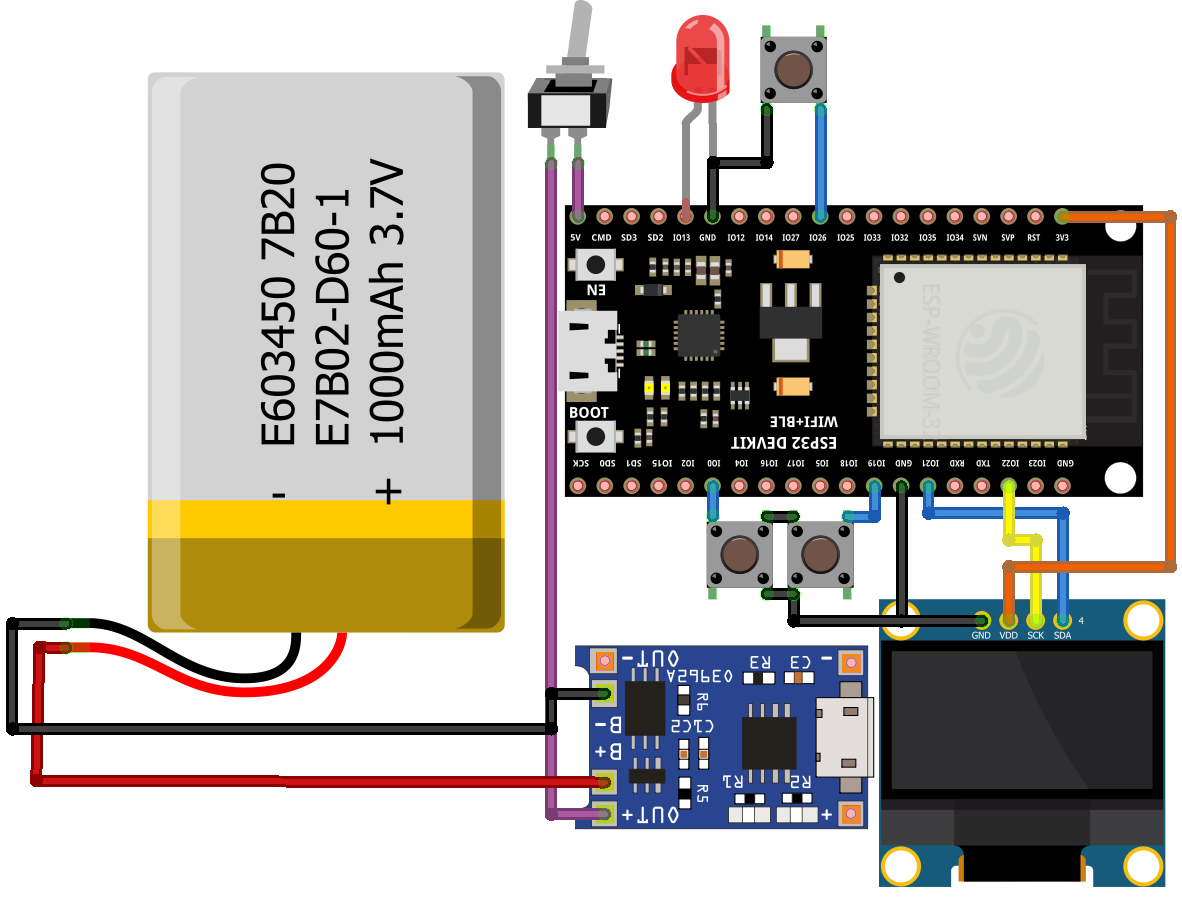
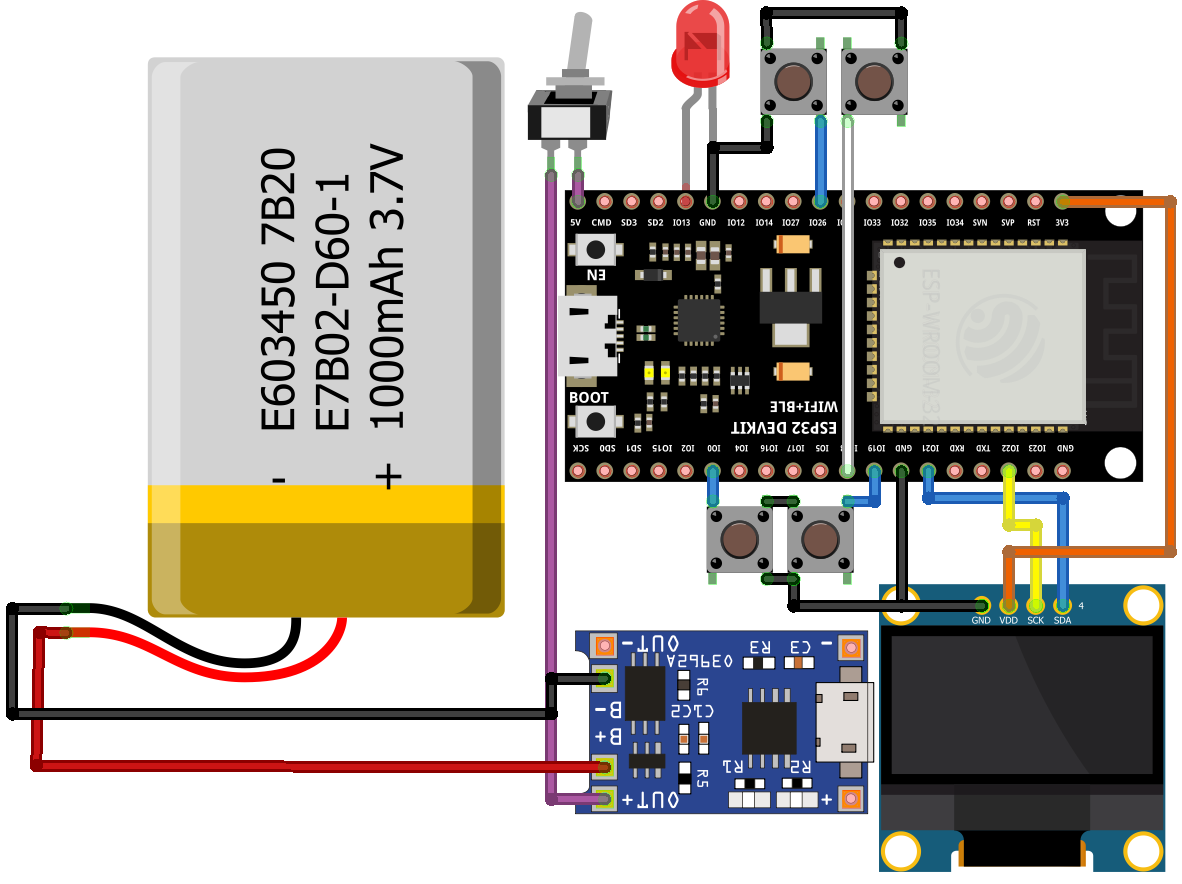
updated circuit

diff --git a/README.md b/README.md
@@ -18,30 +18,30 @@
   I have tried combining multiple games from multiple platform which utilizes various display libraries. So, combining them all would create a conflict using same integers or parameters. I have resolved the conflict in my display library and kept it here for your ease of usage. please replace your typical library with mine in your computer and then try compiling the code. 
 
 ## How to use:
-  - up and down have used GPIO-00 and GPIO-19. use them to navigate. 
-  - SW or select switch have used GPIO-26.  
-  - BW or back switch have used GPIO-18. 
-  - Single press SW Button to enter menu. 
-  - Single press SW Button to select anything
-  - Single press BW Button to return to home screen
+  - `up` and down have used GPIO-00 and GPIO-19. use them to navigate. 
+  - `SW` or select switch have used GPIO-26.  
+  - `BW` or back switch have used GPIO-18. 
+  - Single press `SW` Button to enter menu. 
+  - Single press `SW` Button to select anything
+  - Single press `BW` Button to return to home screen
 
   ### When Using Presentation Mode:
-  - Press and hold SW button for at least 500 milliseconds to trigger `home key` press. This will indicate flashing up the LED light. 
-  - Press up button to go to next slide (key trigger - `right arrow`).
-  - Press down button to go to previous slide (key trigger - `left arrow`).
-  - Press SW button to trigger `page down` key press.
-  - Press BW button to trigger `page up` key press.
-  - Press and hold BW button for at least 500 milliseconds to return to home screen.
+  - Press and hold `SW` button for at least 500 milliseconds to trigger `home key` press. This will indicate flashing up the LED light. 
+  - Press `up` button to go to next slide (key trigger - `right arrow`).
+  - Press `down` button to go to previous slide (key trigger - `left arrow`).
+  - Press `SW` button to trigger `page down` key press.
+  - Press `BW` button to trigger `page up` key press.
+  - Press and hold `BW` button for at least 500 milliseconds to return to home screen.
     
   ### When Using Media Mode:
-    - Press and hold SW button for at least 500 milliseconds to trigger `mute sound` press. This will indicate flashing up the LED light. 
-    - Press and hold up button for at least 500 milliseconds to trigger `next track` press. This will indicate flashing up the LED light. 
-    - Press and hold down button for at least 500 milliseconds to trigger `previous track` press. This will indicate flashing up the LED light. 
-    - Press up button to increase volume (key trigger - `volume increase`).
-    - Press down button to decrease volume (key trigger - `volume decrease`).
-    - Press SW button to trigger `play/pause` key press.
-    - Press BW button to trigger `page down` key press. This is for scrolling through reels.
-    - Press and hold BW button for at least 500 milliseconds to return to home screen.
+  - Press and hold `SW` button for at least 500 milliseconds to trigger `mute sound` press. This will indicate flashing up the LED light. 
+  - Press and hold `up` button for at least 500 milliseconds to trigger `next track` press. This will indicate flashing up the LED light. 
+  - Press and hold `down` button for at least 500 milliseconds to trigger `previous track` press. This will indicate flashing up the LED light. 
+  - Press `up` button to increase volume (key trigger - `volume increase`).
+  - Press `down` button to decrease volume (key trigger - `volume decrease`).
+  - Press `SW` button to trigger `play/pause` key press.
+  - Press `BW` button to trigger `page down` key press. This is for scrolling through reels.
+  - Press and hold `BW` button for at least 500 milliseconds to return to home screen.
 
 ## Circuit Diagram
   <img src="images/Circuit Diagram.png" width="auto">
